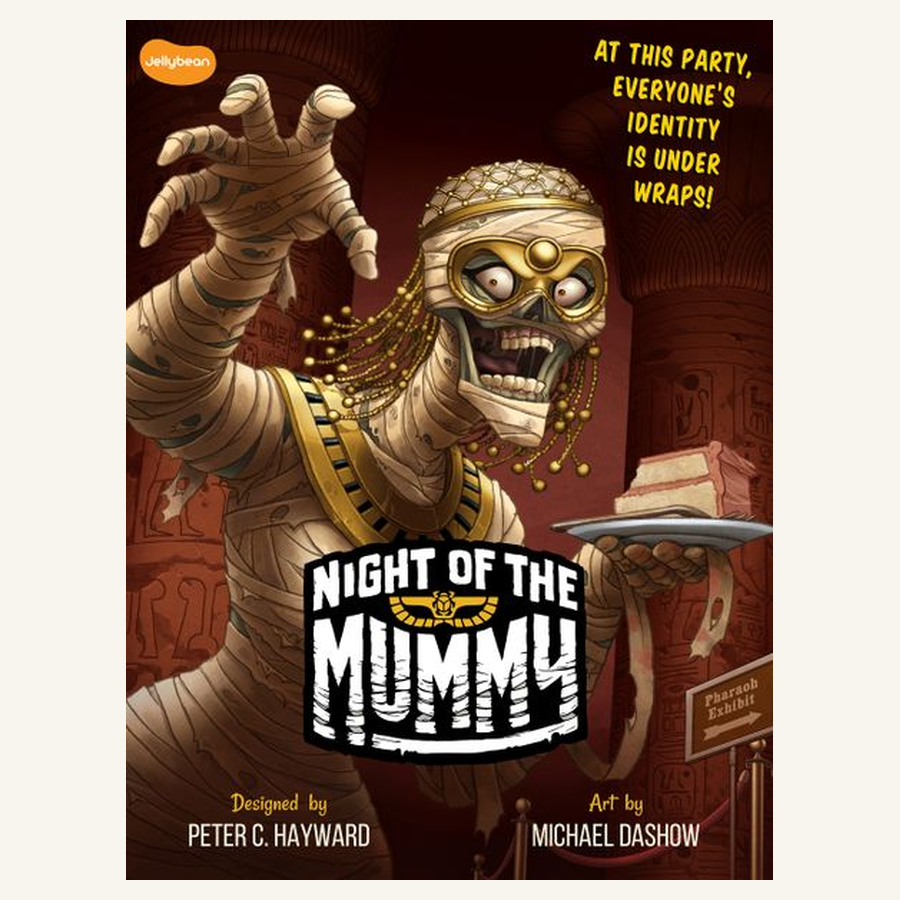
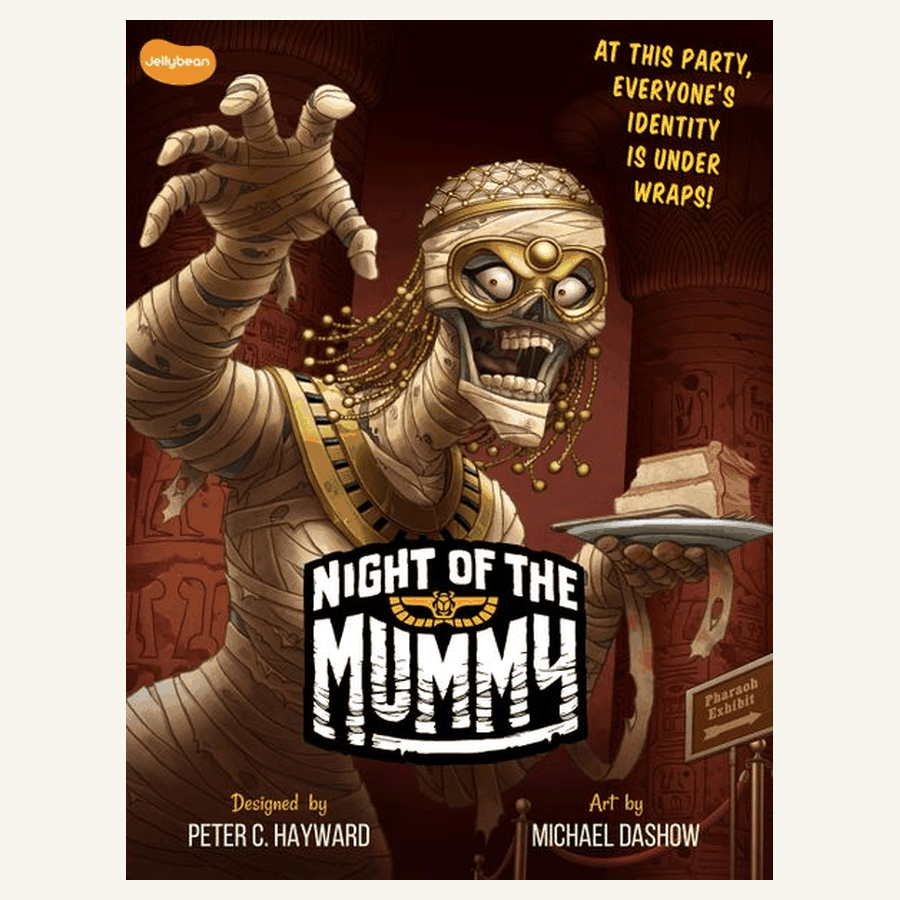
Fiches jeux en Game au lieu de Product, âge des sudokus 4×4, autorisation Jellybean archivée
- Données structurées : Product (offre à 0 $ « en stock ») retiré, la fiche devient un Game avec joueurs et âge minimum ; docs/06 mis à jour.
- Sudoku 4×4 : 6 à 8 ans dans la fiche, la FAQ du hub et le générateur, comme son classement.
- docs/16-autorisations.md : l'autorisation écrite de Jellybean Games ; licence de Ninjitsu alignée sur les autres fiches Jellybean.
- Nouvelle couverture de Night of the Mummy recompressée (800 → 313 Ko).

Claude-Session: https://claude.ai/code/session_01ByA7YvRJ2QJe9kC859nLwE

diff --git a/scripts/puzzles/batch_items.py b/scripts/puzzles/batch_items.py
@@ -425,9 +425,9 @@ SUDOKU = [
          intro="Twenty expert-level sudoku puzzles with only 24 to 26 given numbers each, two per page. Every grid has exactly one solution, verified by our solver, and none can be cracked with singles; expect chains, X-wings and the odd educated guess. They are for solvers who finish newspaper 'hard' grids without slowing down.",
          tip="Write every candidate in every empty cell before you start; with so few clues, full pencil marks are faster than trying to hold it all in your head."),
     dict(slug="4x4-sudoku-for-kids", title="4×4 sudoku for kids", seo="4x4 sudoku printable for kids: 60 free puzzles with answers",
-         summary="Sixty 4 × 4 sudoku puzzles with the numbers 1 to 4, six per page, for children aged 5 to 8. Easy first sudoku grids, solutions included.",
+         summary="Sixty 4 × 4 sudoku puzzles with the numbers 1 to 4, six per page, for children aged 6 to 8. Easy first sudoku grids, solutions included.",
          level="kids4", pages=10, difficulty="easy", age="kids", themes=["numbers", "logic"], seed=605,
-         intro="Sixty tiny sudoku grids for children aged about 5 to 8: four rows, four columns, four 2 × 2 boxes, and only the numbers 1 to 4. Each puzzle has seven given numbers and one solution, and six fit on a page. It is the gentlest way into sudoku logic, and a quiet five-minute task for early finishers.",
+         intro="Sixty tiny sudoku grids for children aged about 6 to 8: four rows, four columns, four 2 × 2 boxes, and only the numbers 1 to 4. Each puzzle has seven given numbers and one solution, and six fit on a page. It is the gentlest way into sudoku logic, and a quiet five-minute task for early finishers.",
          tip="Teach the rule as a question: 'which number is missing from this row?' Once a child can answer that, they can solve every grid in the book."),
     dict(slug="6x6-sudoku-for-kids", title="6×6 sudoku for kids", seo="6x6 sudoku printable for kids: 40 free puzzles with answers",
          summary="Forty 6 × 6 sudoku puzzles with 2 × 3 boxes and the numbers 1 to 6, four per page, for ages 8 to 12. Solvable without guessing, solutions at the back.",

diff --git a/src/content/hubs/puzzles__sudoku.md b/src/content/hubs/puzzles__sudoku.md
@@ -8,5 +8,5 @@ seo_description: "Free printable sudoku puzzles by difficulty: easy, medium, har
 collection: "puzzles"
 filter: {"type": "sudoku"}
 related: [{"label": "Word search", "href": "/puzzles/word-search/"}, {"label": "Mazes", "href": "/puzzles/mazes/"}]
-faq: [{"q": "What makes a sudoku easy, hard or expert?", "a": "The number of given clues and the techniques needed. Our easy and medium puzzles (38 and 32 clues) can be finished with singles alone, so you never have to guess. Hard (27 clues) and expert (24 to 26 clues) puzzles cannot: you will need candidate pairs, pointing numbers and similar techniques."}, {"q": "Which sudoku should a child start with?", "a": "The 4 × 4 grids with the numbers 1 to 4, from about age 5. Once those feel easy, move to the 6 × 6 book (ages 8 to 12), then to the easy 9 × 9 puzzles."}]
+faq: [{"q": "What makes a sudoku easy, hard or expert?", "a": "The number of given clues and the techniques needed. Our easy and medium puzzles (38 and 32 clues) can be finished with singles alone, so you never have to guess. Hard (27 clues) and expert (24 to 26 clues) puzzles cannot: you will need candidate pairs, pointing numbers and similar techniques."}, {"q": "Which sudoku should a child start with?", "a": "The 4 × 4 grids with the numbers 1 to 4, from about age 6. Once those feel easy, move to the 6 × 6 book (ages 8 to 12), then to the easy 9 × 9 puzzles."}]
 ---

diff --git a/src/content/puzzles/4x4-sudoku-for-kids.md b/src/content/puzzles/4x4-sudoku-for-kids.md
@@ -1,7 +1,7 @@
 ---
 title: "4×4 sudoku for kids"
 type: "sudoku"
-summary: "Sixty 4 × 4 sudoku puzzles with the numbers 1 to 4, six per page, for children aged 5 to 8. Easy first sudoku grids, solutions included."
+summary: "Sixty 4 × 4 sudoku puzzles with the numbers 1 to 4, six per page, for children aged 6 to 8. Easy first sudoku grids, solutions included."
 difficulty: "easy"
 age_band: "kids"
 themes: ["numbers", "logic"]
@@ -24,7 +24,7 @@ seo_title: "4x4 sudoku printable for kids: 60 free puzzles with answers"
 <!-- generated by scripts/puzzles/build_batch.py -->
 ## About this sudoku book
 
-Sixty tiny sudoku grids for children aged about 5 to 8: four rows, four columns, four 2 × 2 boxes, and only the numbers 1 to 4. Each puzzle has seven given numbers and one solution, and six fit on a page. It is the gentlest way into sudoku logic, and a quiet five-minute task for early finishers.
+Sixty tiny sudoku grids for children aged about 6 to 8: four rows, four columns, four 2 × 2 boxes, and only the numbers 1 to 4. Each puzzle has seven given numbers and one solution, and six fit on a page. It is the gentlest way into sudoku logic, and a quiet five-minute task for early finishers.
 
 ## What's in the PDF
 

diff --git a/docs/16-autorisations.md b/docs/16-autorisations.md
@@ -1,0 +1,9 @@
+# Autorisations d'hébergement reçues
+
+Autorisations écrites que détient Anthony pour héberger des PDF dont la licence publique ne le permet pas. Une fiche peut passer en `hosting_mode: mirror` si son créateur figure ici.
+
+| Créateur | Ce qui est autorisé | Condition | Texte affiché sur les fiches |
+|---|---|---|---|
+| Jellybean Games (Peter C. Hayward) | Héberger et redistribuer tous leurs PDF print-and-play | Créditer clairement le créateur | « Jellybean hereby permits the redistribution and hosting of this content, provided that clear credit is given to the original creator. » |
+
+Les fichiers de 25 Mo ou plus restent chez l'éditeur (`hosting_mode: link`) à cause de la limite de Cloudflare Pages, même avec l'autorisation. C'est le cas de *Ninjitsu*.

diff --git a/docs/06-architecture-seo.md b/docs/06-architecture-seo.md
@@ -56,7 +56,7 @@ Les deux silos « Puzzles » et « Occasions » sont transversaux : une fiche «
 
 ## 6. Données structurées
 
-- Fiche jeu : `Product` (gratuit, `offers.price = 0`) + `CreativeWork` avec `author` (le créateur), `license`, `inLanguage`, `numberOfPages`.
+- Fiche jeu : `Game` (un `CreativeWork`) avec `author` (le créateur), `license`, `inLanguage`, `numberOfPages`, `numberOfPlayers`, `typicalAgeRange`. Pas de `Product` : retiré le 19/10/2026 (docs/15), le site ne vend rien et Google réserve ce balisage aux pages d'achat.
 - Page catégorie : `CollectionPage` + `ItemList`.
 - FAQ : `FAQPage`.
 - Règles : `HowTo`.

diff --git a/src/content/games/ninjitsu.md b/src/content/games/ninjitsu.md
@@ -24,7 +24,7 @@ designers: ["Peter C. Hayward"]
 artists: ["Kelly Jo"]
 publisher: "Jellybean Games"
 year: 2018
-licence: "Free for personal use, © Jellybean Games"
+licence: "Jellybean hereby permits the redistribution and hosting of this content, provided that clear credit is given to the original creator."
 hosting_mode: "link"
 source_url: "https://jellybean.games/ninjitsu/"
 status: "published"
